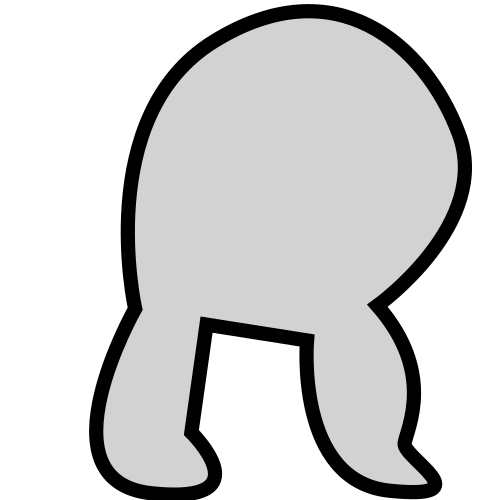
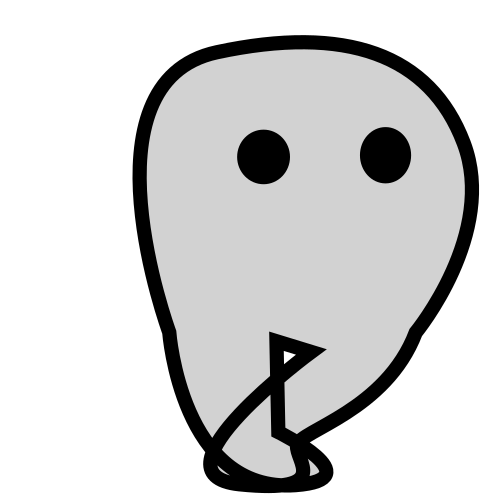
Rework player movement and animations

diff --git a/src/game/player.rs b/src/game/player.rs
@@ -24,8 +24,8 @@ const PLAYER_SCALE_Y: f32 = PLAYER_HEIGHT / INKSCAPE_SCALE;
 // spritesheet indices
 const IDLE_INDEX: usize = 0;
 const RUN_FIRST_INDEX: usize = 1;
-const RUN_LAST_INDEX: usize = 3;
-const JUMP_INDEX: usize = 4;
+const RUN_LAST_INDEX: usize = 4;
+const JUMP_INDEX: usize = 5;
 
 // info for the eyes
 const EYE_RADIUS: f32 = 25.0 * PLAYER_SCALE_X;
@@ -59,6 +59,7 @@ pub(super) fn plugin(app: &mut App) {
                 set_camera_follow,
                 change_player_direction,
                 change_player_state,
+                handle_eye_bobble,
             ))
             .in_set(PausableSystems),
     );
@@ -144,10 +145,32 @@ enum PlayerEye {
     Right,
 }
 
+impl PlayerEye {
+    fn get_pos(&self) -> Vec2 {
+        match self {
+            PlayerEye::Left => Vec2::new(LEFT_EYE_POS_X, LEFT_EYE_POS_Y),
+            PlayerEye::Right => Vec2::new(RIGHT_EYE_POS_X, RIGHT_EYE_POS_Y),
+        }
+    }
+
+    fn get_pos_with_dir(&self, direction: Direction) -> Vec2 {
+        let pos = self.get_pos();
+        if direction == Direction::Left {
+            Vec2::new(-pos.x, pos.y)
+        } else {
+            Vec2::new(pos.x, pos.y)
+        }
+    }
+}
+
 #[derive(Bundle, Default, LdtkEntity)]
 struct PlayerBundle {
     player: Player,
 }
+
+#[derive(Component, Debug, Default, Clone, Copy, PartialEq, Deref, DerefMut, Reflect)]
+#[reflect(Component)]
+struct PlayerEyeBobble(pub Vec2);
 
 fn process_player(
     mut commands: Commands,
@@ -194,18 +217,18 @@ fn process_player(
                 CanAttachChain,
             ))
             .with_children(|player| {
-                player.spawn((
-                    Mesh2d(eye_mesh.clone()),
-                    MeshMaterial2d(eye_material.clone()),
-                    PlayerEye::Left,
-                    Transform::from_xyz(LEFT_EYE_POS_X, LEFT_EYE_POS_Y, 1.0),
-                ));
-                player.spawn((
-                    Mesh2d(eye_mesh.clone()),
-                    MeshMaterial2d(eye_material.clone()),
-                    PlayerEye::Right,
-                    Transform::from_xyz(RIGHT_EYE_POS_X, RIGHT_EYE_POS_Y, 1.0),
-                ));
+                let eyes = [PlayerEye::Left, PlayerEye::Right];
+                for eye in eyes {
+                    let position = eye.get_pos().extend(1.0);
+
+                    player.spawn((
+                        Mesh2d(eye_mesh.clone()),
+                        MeshMaterial2d(eye_material.clone()),
+                        PlayerEyeBobble::default(),
+                        eye,
+                        Transform::from_translation(position),
+                    ));
+                }
             });
     }
 }
@@ -223,6 +246,7 @@ fn change_player_direction(
     mut direction_event_reader: EventReader<ChangePlayerDirection>,
 ) {
     for event in direction_event_reader.read() {
+        let existing_direction = *player.0;
         *player.0 = event.to_direction();
         player.1.flip_x = match event {
             ChangePlayerDirection::TurnLeft => true,
@@ -231,24 +255,50 @@ fn change_player_direction(
 
         for eye_entity in player.2.iter() {
             let player_eye = player_eyes_query.get_mut(eye_entity);
-            if let Ok(mut player_eye) = player_eye {
-                *player_eye.0 = match (event, player_eye.1) {
-                    (ChangePlayerDirection::TurnLeft, PlayerEye::Left) => {
-                        Transform::from_xyz(-LEFT_EYE_POS_X, LEFT_EYE_POS_Y, 1.0)
-                    },
-                    (ChangePlayerDirection::TurnRight, PlayerEye::Left) => {
-                        Transform::from_xyz(LEFT_EYE_POS_X, LEFT_EYE_POS_Y, 1.0)
-                    },
-                    (ChangePlayerDirection::TurnLeft, PlayerEye::Right) => {
-                        Transform::from_xyz(-RIGHT_EYE_POS_X, RIGHT_EYE_POS_Y, 1.0)
-                    },
-                    (ChangePlayerDirection::TurnRight, PlayerEye::Right) => {
-                        Transform::from_xyz(RIGHT_EYE_POS_X, RIGHT_EYE_POS_Y, 1.0)
-                    },
-                };
+            if let Ok((mut player_eye_transform, player_eye)) = player_eye {
+                let old_pos = player_eye.get_pos_with_dir(existing_direction);
+                let existing_offset = player_eye_transform.translation.xy() - old_pos;
+                let position = player_eye.get_pos_with_dir(event.to_direction()) + existing_offset;
+                *player_eye_transform = Transform::from_translation(position.extend(1.0));
             }
         }
     }
+}
+
+fn handle_eye_bobble(
+    time: Res<Time>,
+    player_eye_bobble: Query<(&mut PlayerEyeBobble, &mut Transform, &PlayerEye)>,
+    player_direction: Single<&Direction, With<Player>>,
+) {
+    const EYE_MOVEMENT_SPEED: f32 = 10.0;
+    for (mut bobble, mut transform, eye_type) in player_eye_bobble {
+        let eye_position = eye_type.get_pos_with_dir(**player_direction);
+        let position_diff = eye_position - transform.translation.xy();
+        let offset_diff = position_diff - **bobble;
+        let normalised_offset = offset_diff.try_normalize();
+        if let Some(normalised_offset) = normalised_offset {
+            let offset_move = normalised_offset * time.delta_secs() * EYE_MOVEMENT_SPEED;
+            if offset_move.length() >= offset_diff.length() {
+                transform.translation += offset_diff.extend(0.0);
+                **bobble = generate_random_eye_offset();
+            } else {
+                transform.translation += offset_move.extend(0.0);
+            }
+        } else {
+            **bobble = generate_random_eye_offset();
+        }
+        
+    }
+}
+
+fn generate_random_eye_offset() -> Vec2 {
+    const EYE_X_OFFSET: f32 = 8.0;
+    const EYE_Y_OFFSET: f32 = 16.0;
+
+    let x = (random::<f32>() - 0.5) * EYE_X_OFFSET;
+    let y = (random::<f32>() - 0.5) * EYE_Y_OFFSET;
+
+    Vec2::new(x, y)
 }
 
 fn change_player_state(

diff --git a/src/game/movement.rs b/src/game/movement.rs
@@ -8,7 +8,7 @@ use bevy::prelude::*;
 use pyri_state::pattern::StatePattern;
 
 use crate::{
-    game::{chain::ConnectedChain, death_anim::PauseWhenDyingSystems},
+    game::{chain::ConnectedChain, death_anim::PauseWhenDyingSystems, player::{Player, PlayerState}},
     screen::Screen,
 };
 
@@ -26,6 +26,7 @@ pub(super) fn plugin(app: &mut App) {
                 update_grounded,
                 control_movement,
                 apply_movement_damping,
+                update_idle,
             ))
             .in_set(PausableSystems)
             .in_set(PauseWhenDyingSystems),
@@ -199,12 +200,12 @@ fn control_movement(
 fn update_grounded(
     mut commands: Commands,
     mut query: Query<
-        (Entity, &ShapeHits, &Rotation, Option<&MaxSlopeAngle>),
-        With<CharacterController>,
+        (Entity, &ShapeHits, &Rotation, &PlayerState, Option<&MaxSlopeAngle>),
+        (With<CharacterController>, With<Player>),
     >,
     mut player_state_writer: EventWriter<ChangePlayerState>,
 ) {
-    for (entity, hits, rotation, max_slope_angle) in &mut query {
+    for (entity, hits, rotation, player_state, max_slope_angle) in &mut query {
         // The character is grounded if the shape caster has a hit with a normal
         // that isn't too steep.
         let is_grounded = hits.iter().any(|hit| {
@@ -217,9 +218,22 @@ fn update_grounded(
 
         if is_grounded {
             commands.entity(entity).insert(Grounded);
-            player_state_writer.write(ChangePlayerState::ChangeModeIdle);
+            if *player_state == PlayerState::Jumping {
+                player_state_writer.write(ChangePlayerState::ChangeModeIdle);
+            }
         } else {
             commands.entity(entity).remove::<Grounded>();
+        }
+    }
+}
+
+fn update_idle(
+    player_query: Query<(&LinearVelocity, &PlayerState), With<Player>>,
+    mut event_writer: EventWriter<ChangePlayerState>,
+) {
+    for (velocity, player_state) in player_query {
+        if *player_state == PlayerState::Running && velocity.x.abs() < 0.3 {
+            event_writer.write(ChangePlayerState::ChangeModeIdle);
         }
     }
 }

diff --git a/docs/notes.md b/docs/notes.md
@@ -22,11 +22,11 @@ Chain Reaction
     - Chains coming down - have events that trigger this? 
     - Chains from player - kinda done
 - Multiple levels - done
-- Add way to die, spikes? enemies?
+- Add way to die, spikes? enemies? - have vines but want a boss
 - Add checkpoints?
 - Create basic tileset - think about a theme
 - Fix menu and restarting level
 - Iron out physics
 - Start some level design
-- Audio??
+- Audio?? - not enough time
 
